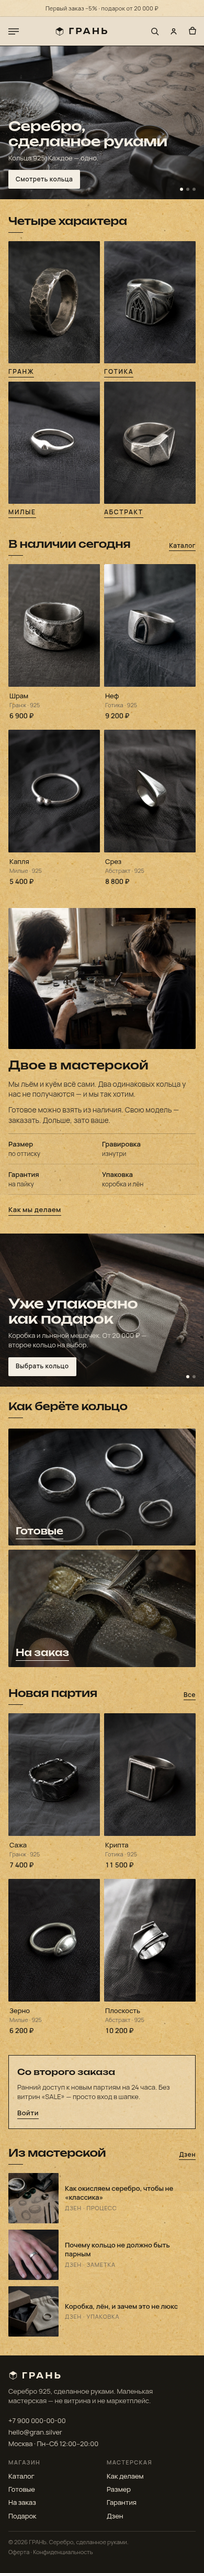
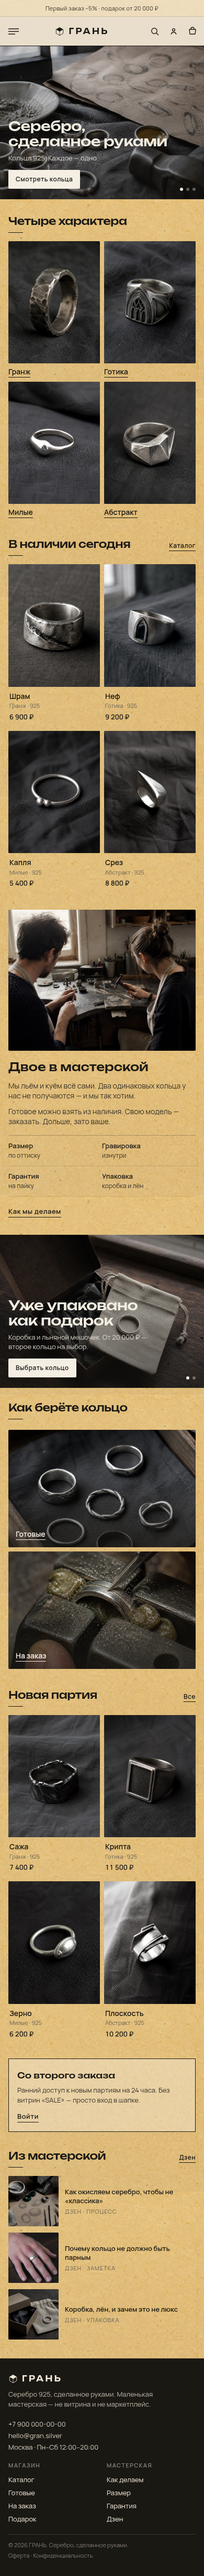
Unify mobile collection titles: sentence case and one underline.
Both KIT collection sections now share one label token; product names stay un-underlined.

diff --git a/gran-test/mobile-home.html b/gran-test/mobile-home.html
@@ -172,15 +172,21 @@
     grid-template-columns: 1fr 1fr;
     gap: var(--gap);
   }
+  /* Collection title: same token in both KIT «Коллекции и категории» */
+  .label-col {
+    font-family: Manrope, sans-serif;
+    font-size: 14px;
+    font-weight: 600;
+    letter-spacing: 0;
+    text-transform: none;
+    display: inline-block;
+    border-bottom: 1px solid currentColor;
+    padding-bottom: 1px;
+    line-height: 1.2;
+  }
   .cat figcaption {
     margin-top: 8px;
-    font-size: 12px;
-    font-weight: 600;
-    letter-spacing: 0.14em;
-    text-transform: uppercase;
-    display: inline-block;
-    border-bottom: 1px solid var(--ink);
-    padding-bottom: 1px;
+    color: var(--ink);
   }
   .thumb {
     aspect-ratio: 3/4;
@@ -191,7 +197,7 @@
   .thumb img { filter: saturate(0.88) contrast(1.04); }
 
   .card .meta { padding: 8px 2px 10px; }
-  .card .t { font-size: 13px; font-weight: 500; }
+  .card .t { font-size: 14px; font-weight: 600; }
   .card .sub { font-size: 11px; color: var(--mute); margin-top: 1px; }
   .card .p { font-size: 13px; font-weight: 600; margin-top: 4px; font-variant-numeric: tabular-nums; }
 
@@ -240,11 +246,8 @@
     background: linear-gradient(180deg, transparent 40%, rgba(26,24,20,0.7) 100%);
   }
   .path span {
-    position: absolute; left: 14px; bottom: 12px;
-    font-family: Unbounded, sans-serif;
-    font-size: 18px; font-weight: 500; color: #f4eee3;
-    border-bottom: 1px solid #f4eee3;
-    padding-bottom: 2px;
+    position: absolute; left: 14px; bottom: 14px;
+    color: #f4eee3;
   }
 
   .quiet {
@@ -340,19 +343,19 @@
     <div class="grid-2">
       <figure class="cat">
         <div class="thumb"><img src="assets/img/cat-grunge.jpg" alt="Кольцо, коллекция Гранж" /></div>
-        <figcaption>Гранж</figcaption>
+        <figcaption class="label-col">Гранж</figcaption>
       </figure>
       <figure class="cat">
         <div class="thumb"><img src="assets/img/cat-gothic.jpg" alt="Кольцо, коллекция Готика" /></div>
-        <figcaption>Готика</figcaption>
+        <figcaption class="label-col">Готика</figcaption>
       </figure>
       <figure class="cat">
         <div class="thumb"><img src="assets/img/cat-cute.jpg" alt="Кольцо, коллекция Милые" /></div>
-        <figcaption>Милые</figcaption>
+        <figcaption class="label-col">Милые</figcaption>
       </figure>
       <figure class="cat">
         <div class="thumb"><img src="assets/img/cat-abstract.jpg" alt="Кольцо, коллекция Абстракт" /></div>
-        <figcaption>Абстракт</figcaption>
+        <figcaption class="label-col">Абстракт</figcaption>
       </figure>
     </div>
   </section>
@@ -418,12 +421,12 @@
     <a class="path" href="#">
       <img src="assets/img/col-ready.jpg" alt="Готовые кольца" />
       <div class="veil"></div>
-      <span>Готовые</span>
+      <span class="label-col">Готовые</span>
     </a>
     <a class="path" href="#">
       <img src="assets/img/col-custom.jpg" alt="Работа на заказ" />
       <div class="veil"></div>
-      <span>На заказ</span>
+      <span class="label-col">На заказ</span>
     </a>
   </section>
 

diff --git a/gran-test/PROCESS.md b/gran-test/PROCESS.md
@@ -89,7 +89,11 @@
 ## 4. Визуальный язык (mobile)
 
 - **Бумага и графит.** Фон — тёплая бумага с волокном, не белый магазин и не чёрный люкс.
-- **Тип:** Unbounded на имени и заголовках (геометрия «грани»), Manrope в интерфейсе. Подчёркивания вместо заливок и теней.
+- **Тип:** Unbounded на имени и заголовках секций (геометрия «грани»), Manrope в интерфейсе. Три роли, без капса в контенте:
+  - **Коллекция** (обе секции KIT «Коллекции и категории»): обычный регистр, 14/600, подчёркивание. «Гранж» и «Готовые» — один токен.
+  - **Товар** (полка): тот же регистр и кегль, без подчёркивания — это имя объекта и цена, не текстовая ссылка.
+  - **Текстовая ссылка** («Каталог», «Все», «Дзен», «Как мы делаем»): обычный регистр, подчёркивание.
+  Капс оставляю только служебному: логотип, кикеры журнала, заголовки колонок в подвале.
 - **Логотип:** гексагон с залитой верхней плоскостью — буквально грань. Текстовый знак с широким трекингом, как штамп.
 - **Фото:** один свет (северное окно слева), один стол (лён + дуб), одно серебро. Кольца не «идеальный рендер».
 - **Промо** не красное. Если выключить строку в шапке — сайт не разваливается: офер живёт ещё во втором слайдшоу.
